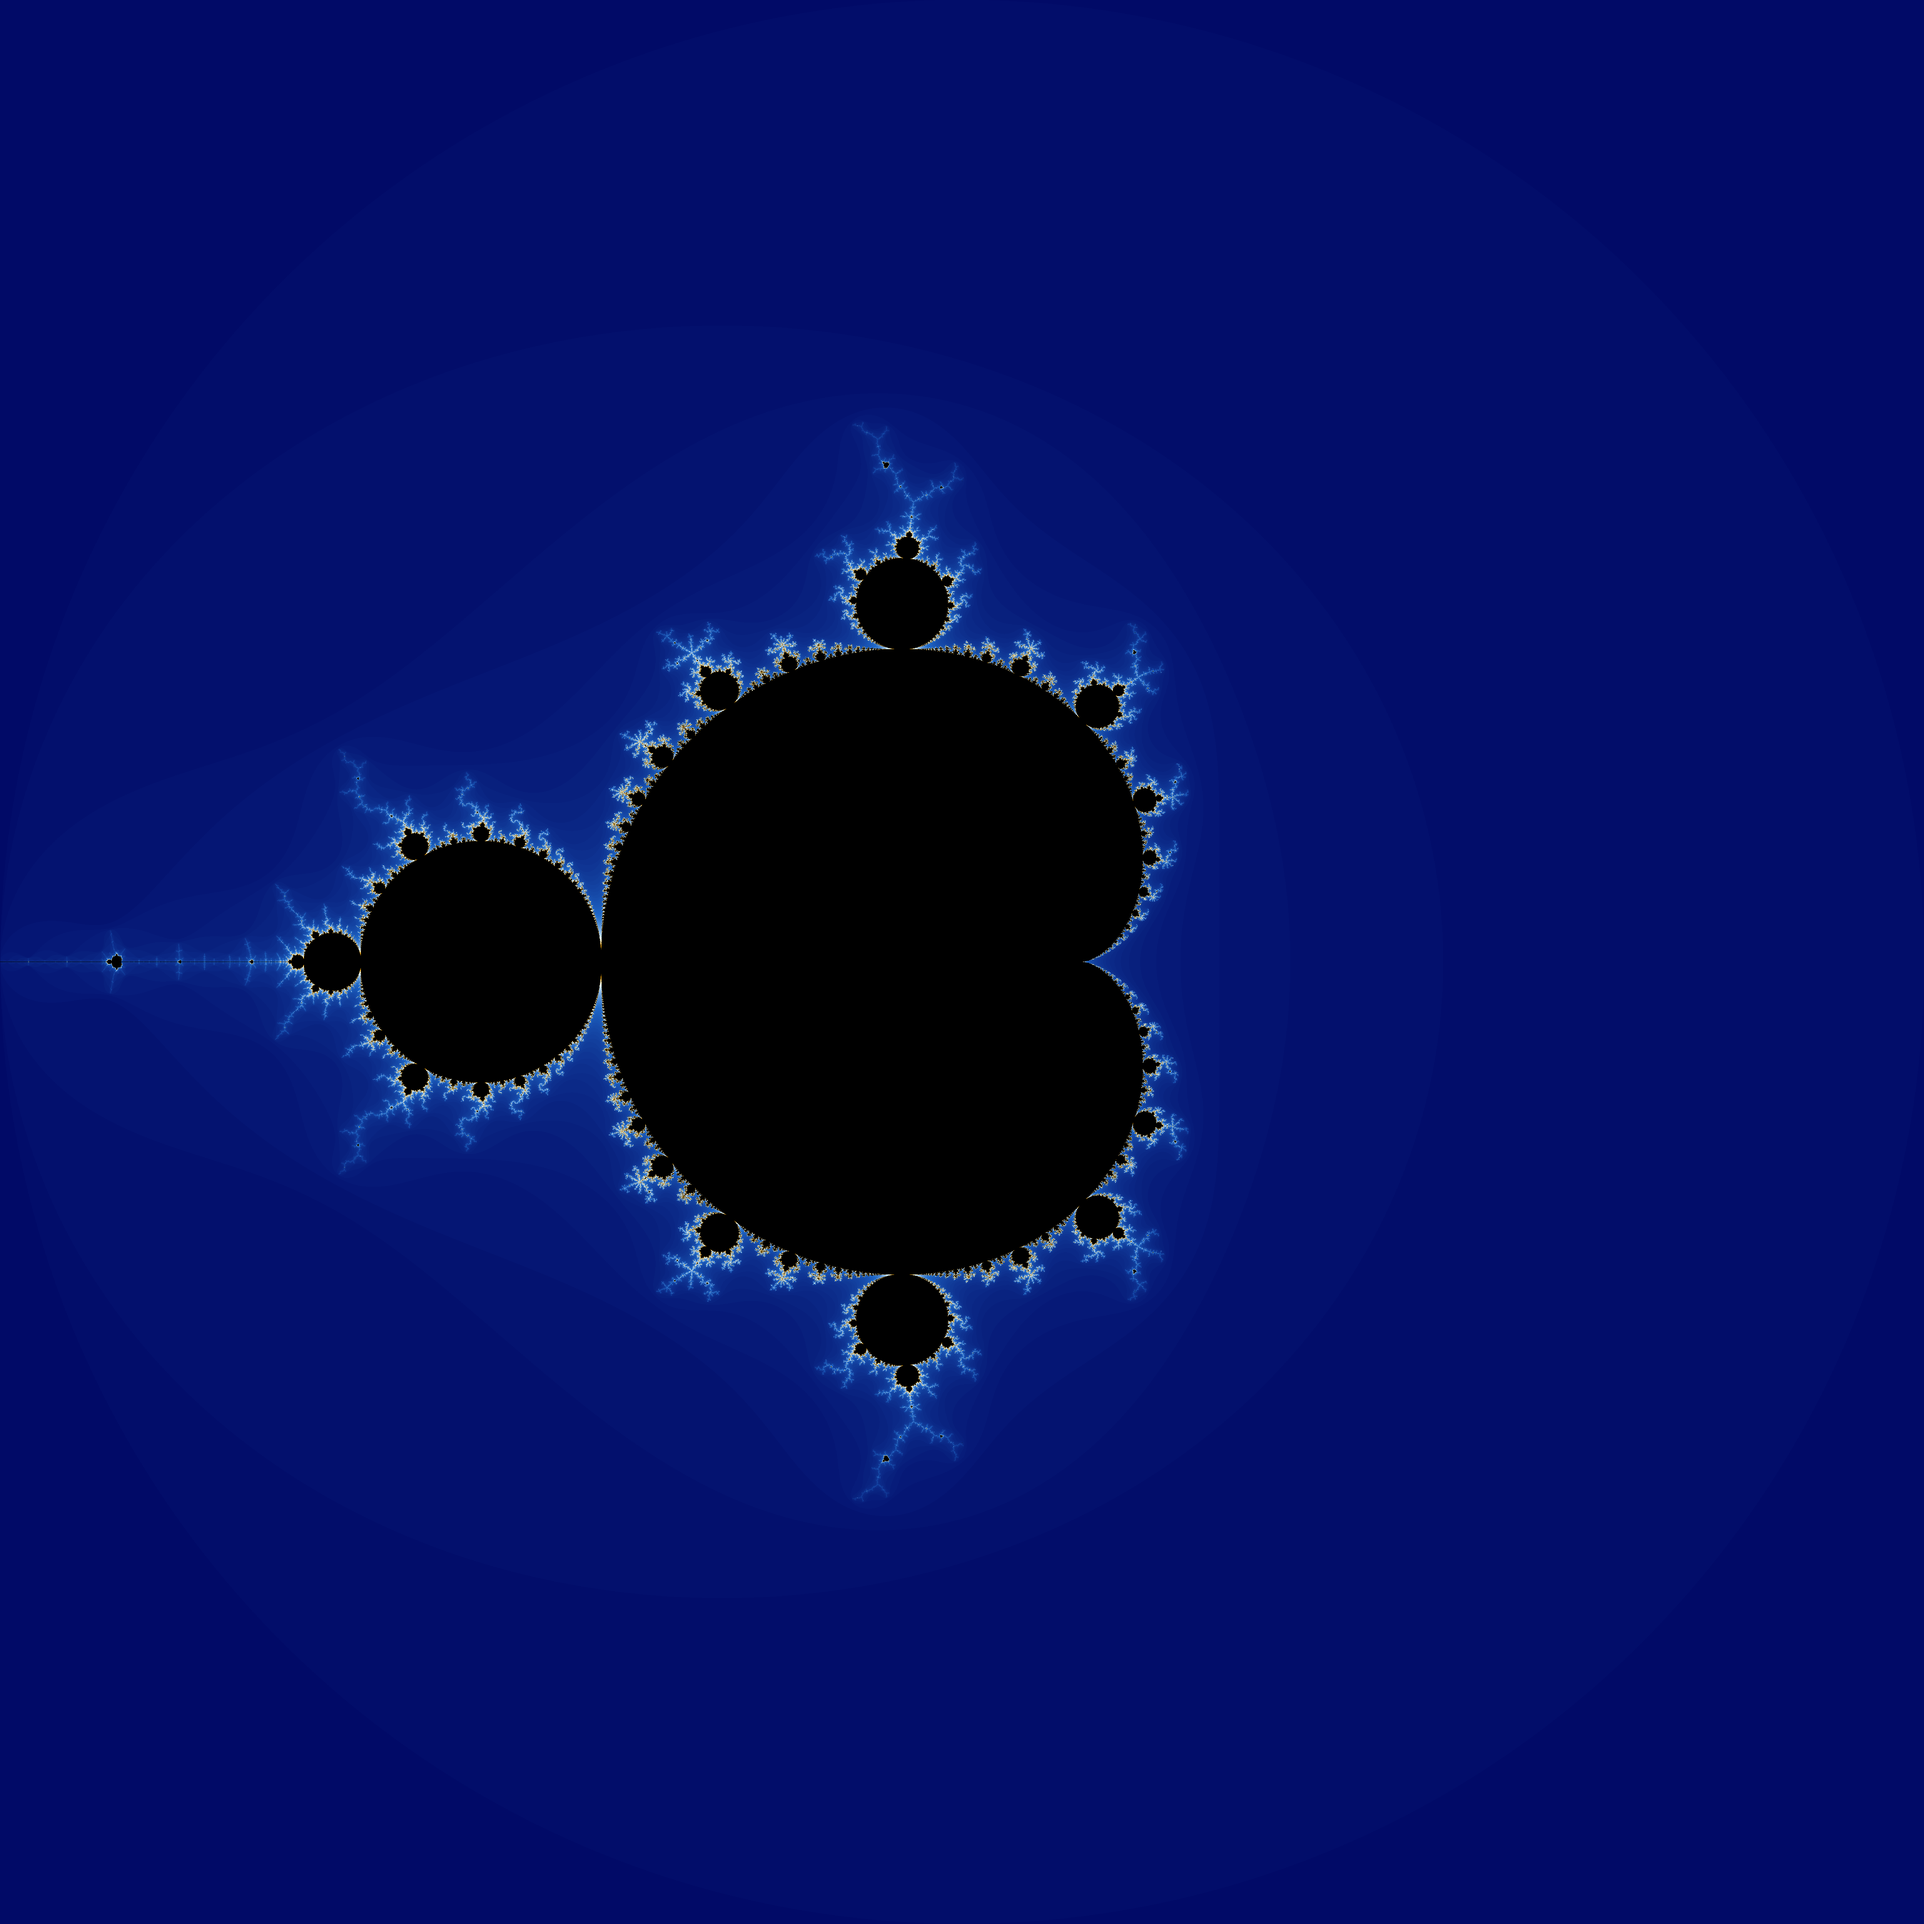
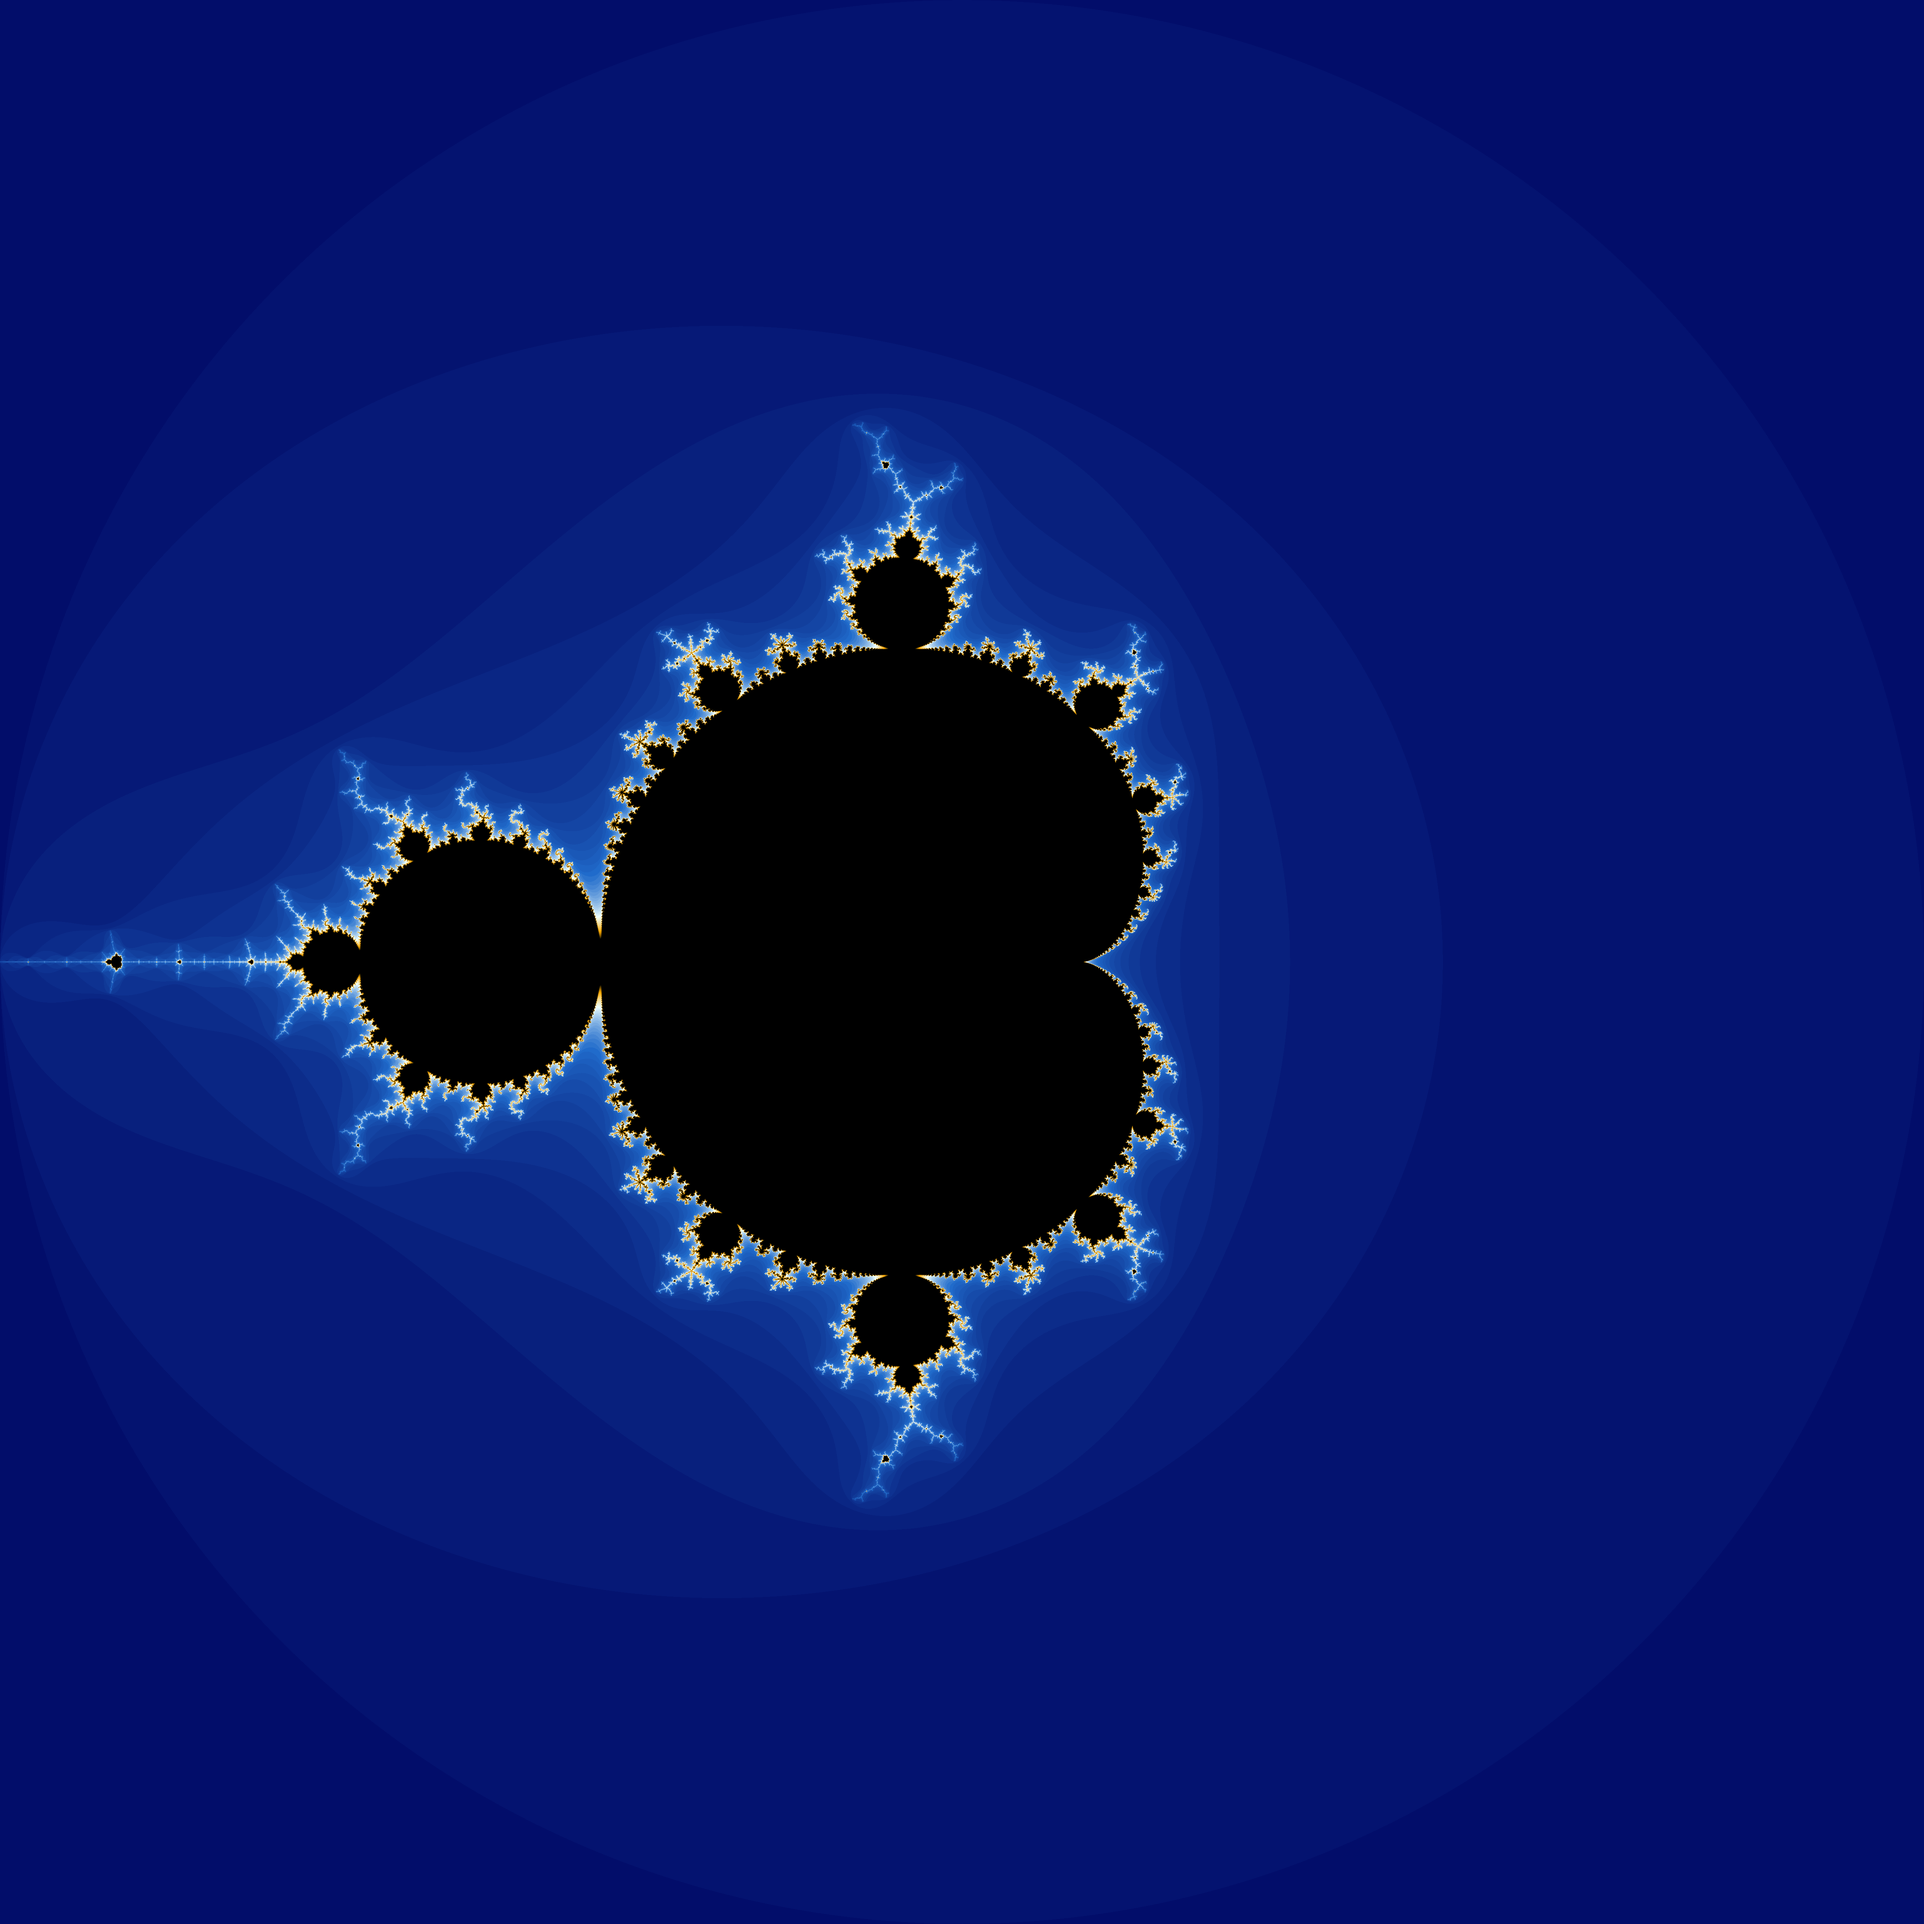
Proper AA

Changed region(s): [[0.0312, 0.2184, 0.624, 0.78]]

diff --git a/src/main.cpp b/src/main.cpp
@@ -5,8 +5,8 @@
 #include <math.h>
 
 // Global Declarations
-int image_width = 1000;
-int image_height = 1000; 
+int image_width = 5000;
+int image_height = 5000; 
 
 // long double output_start = -2.0f;
 // long double output_end = 2.0f;
@@ -21,7 +21,7 @@ long double output_end = 0.36f;
 
 int n_max = 512; // 4096
 
-int s_max = 1; // anti-aliasing
+int s_max = 8; // prefer to be a power of 2
 
 
 
@@ -78,7 +78,7 @@ long double smoothColor(int n, Complex c)
 }
 
 // Stolen code from https://github.com/sevity/mandelbrot
-inline Color linear_interpolation(const Color& v, const Color& u, double a)
+inline Color linearInterpolation(const Color& v, const Color& u, double a)
 {
 	auto const b = 1 - a;
 	return Color(b * v.R + a * u.R, b*v.G + a * u.G, b*v.B + a * u.B);
@@ -93,10 +93,8 @@ void writePPM(std::vector<std::vector<int>> IterationCounts, std::vector<std::ve
     {
         std::cerr << "\rScanlines remaining: " << j << " " <<  std::flush;
 
-
         for(int i = 0; i < image_width; ++i)
         {
-            
             int iter = IterationCounts[i][j];
             
             // Stolen Code from https://github.com/sevity/mandelbrot
@@ -108,7 +106,7 @@ void writePPM(std::vector<std::vector<int>> IterationCounts, std::vector<std::ve
 			auto i_mu = static_cast<size_t>(mu);
 			auto color1 = colors[i_mu];
 			auto color2 = colors[std::min(i_mu + 1, max_color)];
-			Color c = linear_interpolation(color1, color2, mu - i_mu);
+			Color c = linearInterpolation(color1, color2, mu - i_mu);
 
             if(iter == n_max)
             {
@@ -155,7 +153,7 @@ void writePPM(std::vector<std::vector<int>> IterationCounts, std::vector<std::ve
 }
 
 
-cIterations iterateMandelbrot(int i, int j)
+cIterations iterateMandelbrot(long double i, long double j)
 {
     long double complex_i = map(i, output_start, output_end, 0, image_width);
     long double complex_j = map(j, output_start, output_end, 0, image_height);
@@ -288,32 +286,44 @@ int main(int argc, char* argv[])
         for(int j = 0; j < image_height; j++)
         {
 
-            int sum_n = 0;
-            int ii = i;
-            int jj = j;
-
             cIterations citerations;
             Complex c;
             int n = 0;
 
-            for(int k = 0; k < s_max; k++)
-            {
-                long double r = (double)(rand()%100)/100;
+            int sum = 0;
 
-                ii+=r;
-                jj+=r;
+
+            for(double k = 0.0; k < 1.0; k+=1.0/s_max)
+            {
+                // std::cerr << k << std::endl;
+
+                double ii  = i+k;
+                double jj = j+k;
+
+                // std::cerr << ii << " " << jj << std::endl;
 
                 citerations = iterateMandelbrot(ii,jj);
 
                 n = citerations.n;
                 c = citerations.c;
-
-                sum_n = sum_n + citerations.n;
+                
+                sum+=n;
             }
 
-            sum_n = sum_n / s_max;
+            sum = sum / s_max;
 
-            IterationCounts[i].push_back(sum_n);
+            n = sum;
+
+            // return 0;
+
+
+
+            // citerations = iterateMandelbrot(i,j);
+
+            // n = citerations.n;
+            // c = citerations.c;
+
+            IterationCounts[i].push_back(n);
             IterationValues[i].push_back(c);
         }
     }

diff --git a/README.md b/README.md
@@ -23,14 +23,14 @@ convert file.ppm file.png
 
 ## Sample Images
 
-### Resolution: 1000x1000, n_max = 128, s_max = 1, range: -2.0, 2.0
+### Resolution: 5000x5000, n_max = 64, s_max = 8, range: -2.0, 2.0, time: 0m12,828s
 ![Sample 1](images/file1.png)
 
-### Resolution: 1000x1000, n_max = 256, s_max = 1, range: 0.2, 0.5
+### Resolution: 5000x5000, n_max = 256, s_max = 8, range: 0.2, 0.5, time: 2m19,883s
 ![Sample 2](images/file2.png)
 
-### Resolution: 1000x1000, n_max = 256, s_max = 1, range: 0.35, 0.45
+### Resolution: 5000x5000, n_max = 256, s_max = 8, range: 0.35, 0.45, time: 0m30,843s
 ![Sample 3](images/file3.png)
 
-### Resolution: 1000x1000, n_max = 512, s_max = 1, range: 0.35, 0.36
+### Resolution: 5000x5000, n_max = 512, s_max = 8, range: 0.35, 0.36, time: 1m30,134s
 ![Sample 3](images/file4.png)
